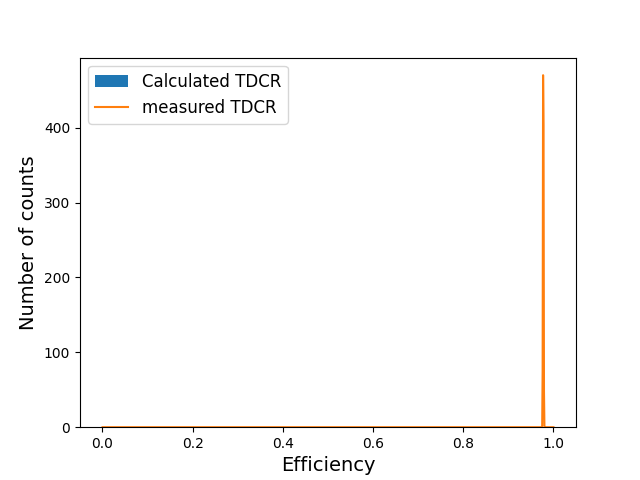
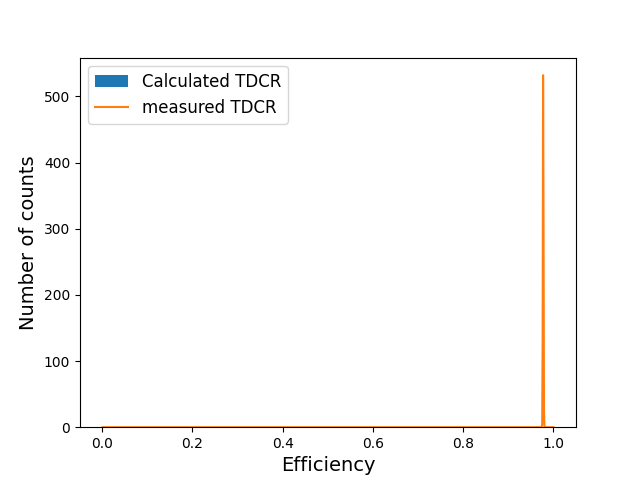
Change the multiplication factor in dE/dx

diff --git a/MCTDCRcode/main_MCTDCR.py b/MCTDCRcode/main_MCTDCR.py
@@ -146,7 +146,7 @@ for i in range(N): # Main Loop
         if p == "alpha":
             energy_vec[i] = 0
             for j in e_discrete:
-                energy_vec[i] += delta_e*1e-3/(1+kB*tl.stoppingpowerA(j*1e-3,'alpha_toulene.txt',RHO))
+                energy_vec[i] += delta_e*1e-3/(1+kB*tl.stoppingpowerA(j*1e3,'alpha_toulene.txt',RHO))
         if p == "electron":
             energy_vec[i] = 0
             for j in e_discrete:
